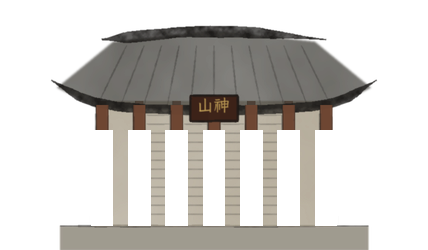
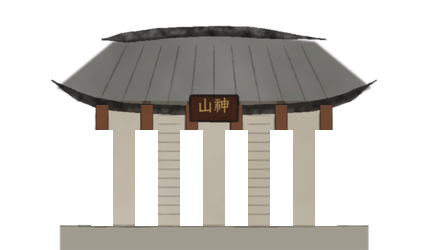
殿宇拿掉中柱：改五開間、正中殿門敞開 (#63)
* 修傳功殿穿模：殿蓋在台基上、h100/h200 平台就是台基頂與殿內迴廊；宗門不再垂假殿柱

Kc：傳功殿穿模。原因是區塊的兩層平台橫穿殿牆與柱子、站上去像嵌在牆裡，另外宗門的垂掛前景殿柱
從殿中間穿過。改成石砌台基＋殿基剛好 100 高（站上去就是站在殿基頂、在簷柱後面），h200 畫成殿內迴廊，
屋面平台降到 280（從迴廊跳得上去）；宗門地圖不再放垂掛殿柱。

Claude-Session: https://claude.ai/code/session_01Pys4jZiBdfTibS8DynZjZp

* Draw hall cauldron and plaques in front of the thickened pillars

The sect hall's incense cauldron sat in the back layer right behind the
centre pillar, and the re-drawn thick pillars also cut through the hall
and shrine plaques. The cauldron now goes in the front layer, drawn after
the pillars, and the plaques are redrawn on top of the pillars.

Claude-Session: https://claude.ai/code/session_01Pys4jZiBdfTibS8DynZjZp

* Drop the centre pillar from halls: odd number of bays with an open middle bay

Traditional halls have an odd number of bays, so there is no column on
the centre line. Halls now use five bays (six pillars) and leave the
middle bay's lattice off as an open doorway, so the plaque and the
incense cauldron are never crossed by a pillar.

Claude-Session: https://claude.ai/code/session_01Pys4jZiBdfTibS8DynZjZp

---------

diff --git a/tools/inkpaint/scenery.py b/tools/inkpaint/scenery.py
@@ -264,6 +264,10 @@ def plaque(cv, cx, cy, text, w=None, size=22, board=(60, 34, 24), ink=(214, 178,
     cv.text(text, cx - size * len(text) / 2 * 1.0, cy - size * 0.62, size, ink, 0.95, FONT)
 
 
+# 殿堂開間數：傳統殿宇是單數開間（正中是明間、沒有中柱），柱子是雙數
+HALL_BAYS = 5
+
+
 def hall(cv, cx, gy, w, h, wall=(196, 184, 160), pillar=(120, 40, 30), roof_c=(52, 58, 66), text=None, alpha=1.0, tiers=1):
     """殿堂：台基、柱、牆、飛簷，可加匾額。"""
     base_h = h * 0.1
@@ -271,13 +275,15 @@ def hall(cv, cx, gy, w, h, wall=(196, 184, 160), pillar=(120, 40, 30), roof_c=(5
     cv.stroke([(cx - w * 0.55, gy - base_h), (cx + w * 0.55, gy - base_h)], 2, INK, 0.7 * alpha, smooth=0)
     top = gy - h * 0.62
     cv.paint(cv.textured(cv.rect(cx - w * 0.42, top, cx + w * 0.42, gy - base_h, blur=0.6), 0.3, "cloud"), wall, 0.92 * alpha)
-    n = 6
+    n = HALL_BAYS
     for k in range(n + 1):
         px = cx - w * 0.4 + w * 0.8 * k / n
         cv.paint(cv.rect(px - 4, top, px + 4, gy - base_h), pillar, 0.9 * alpha)
         cv.stroke([(px - 4, top), (px - 4, gy - base_h)], 1.4, INK, 0.5 * alpha, smooth=0)
     # 門窗格
     for k in range(1, n - 1):
+        if k == n // 2:
+            continue                       # 正中明間是敞開的殿門
         px = cx - w * 0.4 + w * 0.8 * (k + 0.5) / n
         for yy in np.arange(top + 14, gy - base_h - 8, 9):
             cv.stroke([(px - w * 0.04, yy), (px + w * 0.04, yy)], 1, INK, 0.25 * alpha, smooth=0, dry=0.3)

diff --git a/tools/inkpaint/landmarks.py b/tools/inkpaint/landmarks.py
@@ -64,8 +64,8 @@ def hall(lid, text, w=520, h=420, wall=(196, 184, 160), pillar=(120, 40, 30), ro
     base_h, top = h * 0.1, gy - h * 0.62
     front = []
     pw = max(6.0, w * 0.013)               # 簷柱加粗（S.hall 的柱子只有 8px，穿過時看不出被擋）
-    for k in range(7):
-        px = cx - w * 0.4 + w * 0.8 * k / 6
+    for k in range(S.HALL_BAYS + 1):         # 單數開間：正中沒有柱子，香爐、匾額不會被擋
+        px = cx - w * 0.4 + w * 0.8 * k / S.HALL_BAYS
         cv.paint(cv.rect(px - pw, top + 4, px + pw, gy - base_h), pillar, 0.95)
         cv.stroke([(px - pw, top + 4), (px - pw, gy - base_h)], 1.6, INK, 0.6, smooth=0)
         cv.stroke([(px + pw, top + 4), (px + pw, gy - base_h)], 1.2, INK, 0.35, smooth=0)
@@ -107,8 +107,8 @@ def terrace_hall(lid, text, w=545, h=330, terrace=100, tw=600, balcony=(-100, 10
     cv.stroke([(b0, bh - 22), (b1, bh - 22)], 3, wood, 0.95, smooth=0)
     front = []
     pw = max(6.0, w * 0.013)
-    for k in range(7):
-        px = cx - w * 0.4 + w * 0.8 * k / 6
+    for k in range(S.HALL_BAYS + 1):         # 單數開間：正中沒有柱子，香爐、匾額不會被擋
+        px = cx - w * 0.4 + w * 0.8 * k / S.HALL_BAYS
         cv.paint(cv.rect(px - pw, top + 4, px + pw, ty - base_h), (120, 40, 30), 0.95)
         cv.stroke([(px - pw, top + 4), (px - pw, ty - base_h)], 1.6, INK, 0.6, smooth=0)
         cv.stroke([(px + pw, top + 4), (px + pw, ty - base_h)], 1.2, INK, 0.35, smooth=0)
